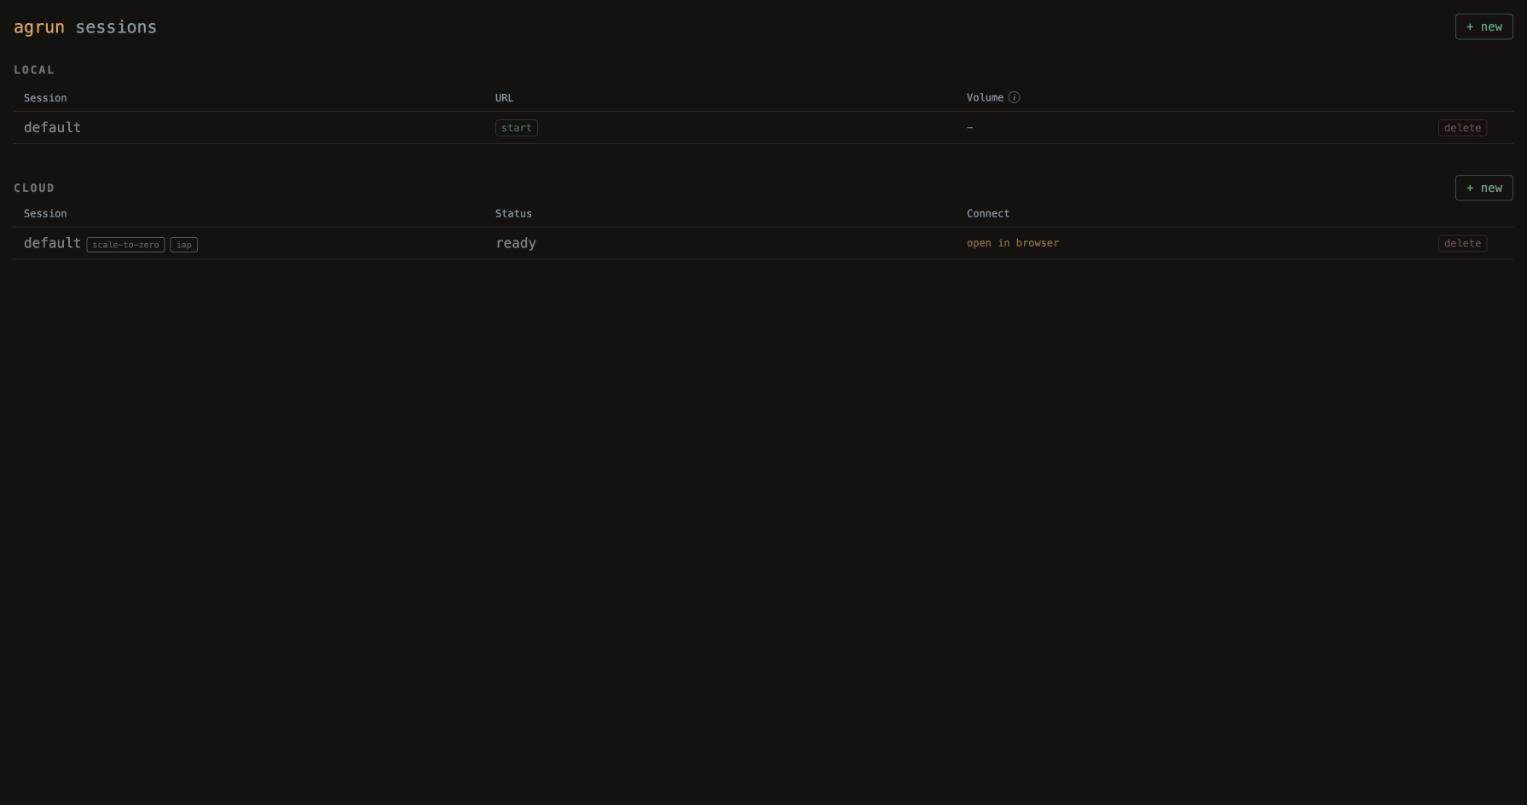
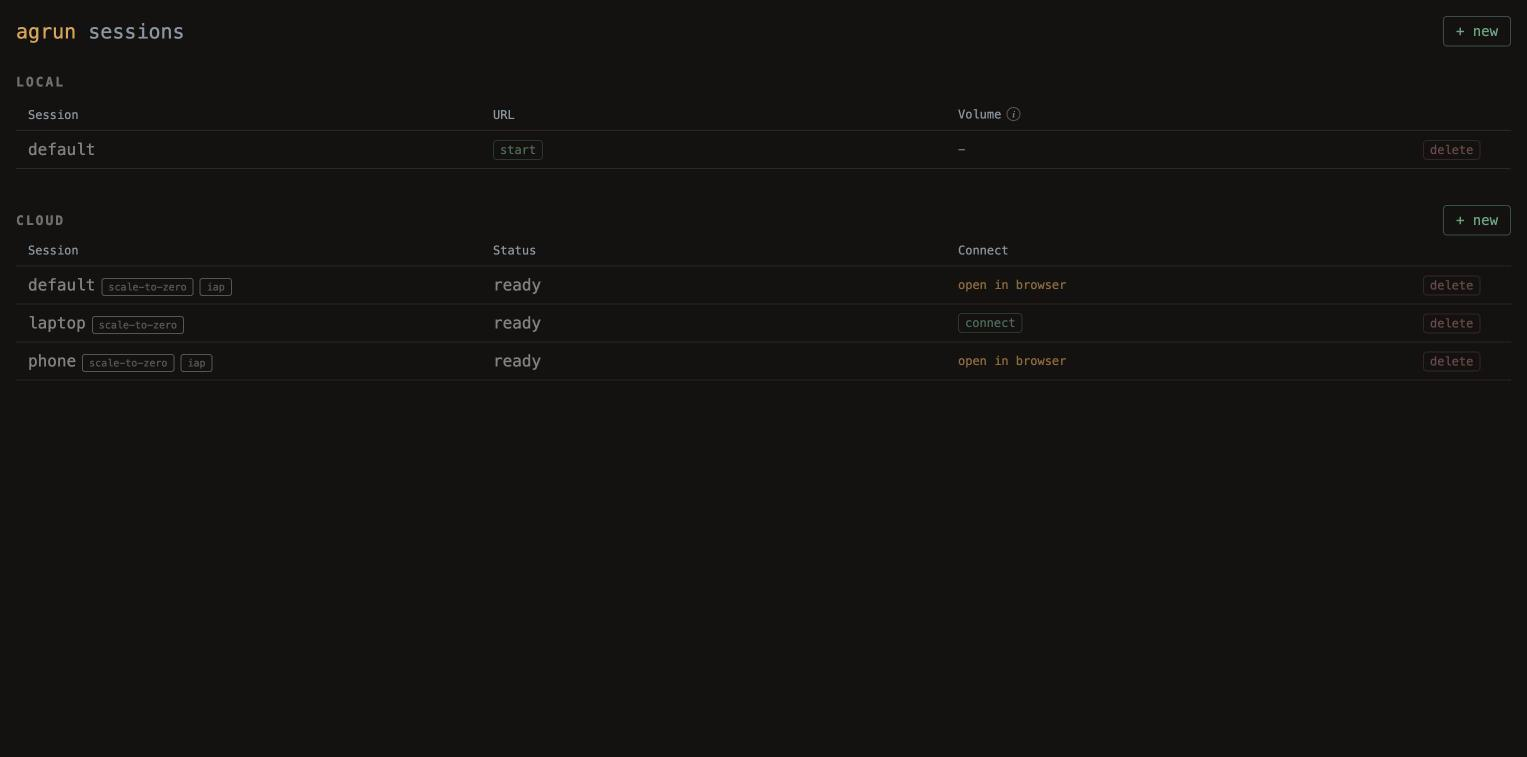
Font size as a deploy flag; dashboard + modal screenshots for the post
- ttyd only takes xterm options server-side, so ?fontSize= in the URL never
  did anything: drop it from the post, deploy output and dashboard link
- entrypoint-cloud.sh reads TTYD_FONT_SIZE (default 16); deploy-cloud.sh
  gains -f to set it per session

diff --git a/dashboard/template.html b/dashboard/template.html
@@ -814,7 +814,7 @@
                         // IAP sessions: no local proxy (IAP rejects its tokens),
                         // so link straight to the run.app URL instead
                         connect = s.iap
-                            ? (s.publicUrl ? `<a href="${s.publicUrl}/?fontSize=16" target="_blank">open in browser</a>` : '-')
+                            ? (s.publicUrl ? `<a href="${s.publicUrl}/" target="_blank">open in browser</a>` : '-')
                             : (s.connected
                                 ? `<a href="${s.url}" target="_blank">${s.url.replace('http://', '')}</a>`
                                 : `<button class="start-btn" onclick="connectCloudSession('${s.name}', this)">connect</button>`);

diff --git a/posts/phone-access-iap.md b/posts/phone-access-iap.md
@@ -108,9 +108,7 @@ client handed to IAP. Four steps, mostly console clicks:
 
 The change takes effect in seconds: the 502 is gone, and the service URL
 redirects to a Google sign-in instead. On the phone: open
-`https://SERVICE-URL/?fontSize=16` (ttyd accepts xterm options as query
-parameters, and fontSize is the one that matters on mobile), pick your Google
-account, and the terminal loads.
+the service URL, pick your Google account, and the terminal loads.
 
 ## What IAP breaks
 
@@ -123,4 +121,12 @@ So it's a per-session choice, and I made it a flag: my deploy script takes
 as an "open in browser" link instead of an embedded terminal. Default is no
 IAP.
 
-![The dashboard: an IAP session gets a badge and an "open in browser" link instead of an embedded terminal](../assets/phone-access-dashboard-iap.jpg)
+Here's a `phone` session with IAP next to a `laptop` session without it. The
+IAP one opens in a browser tab; the other one connects through the local
+proxy and gets embedded in the dashboard:
+
+![The dashboard listing a laptop session with a connect button and a phone session with an iap badge and an open-in-browser link](../assets/phone-access-dashboard-iap.jpg)
+
+It's a checkbox when creating a session too, off by default:
+
+![The new cloud session dialog with a phone access via IAP checkbox](../assets/phone-access-new-session-modal.jpg)
